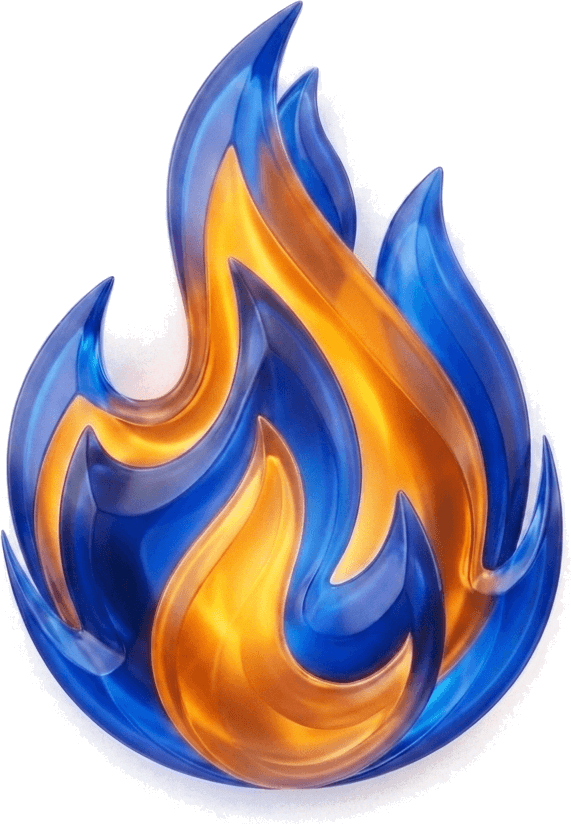
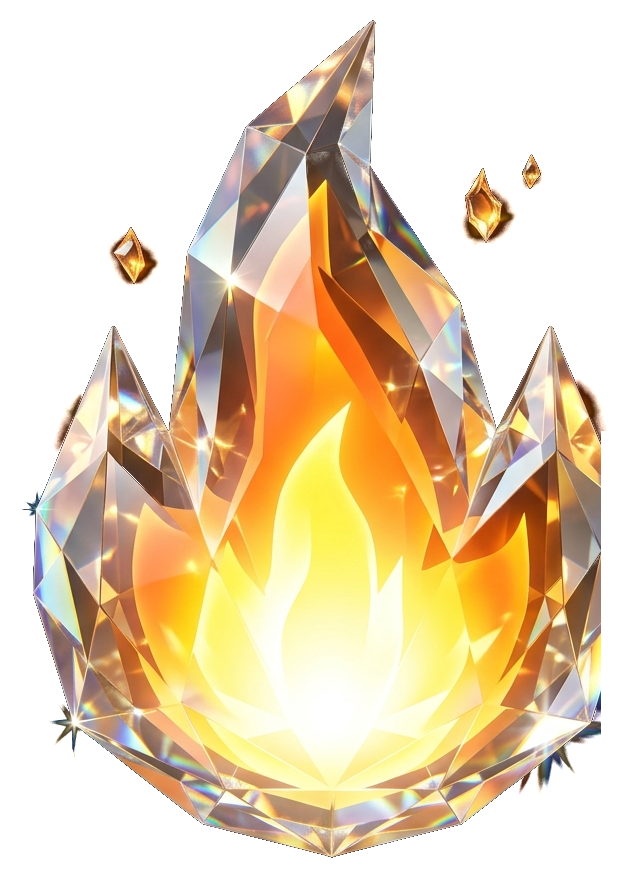
feat(ui): nâng cấp tạo hình đốm lửa 3D crystal streak flame và component chuyển động StreakFlame3D

diff --git a/shared/components/feedback/StreakFlame3D.tsx b/shared/components/feedback/StreakFlame3D.tsx
@@ -1,0 +1,142 @@
+"use client";
+
+import React from "react";
+import { motion } from "framer-motion";
+
+interface StreakFlame3DProps {
+  size?: "xs" | "sm" | "md" | "lg" | "xl";
+  className?: string;
+  animate?: boolean;
+  showHalo?: boolean;
+  showSparks?: boolean;
+}
+
+const SIZE_MAP = {
+  xs: "w-6 h-6",
+  sm: "w-8 h-8 sm:w-9 sm:h-9",
+  md: "w-12 h-12 sm:w-14 sm:h-14",
+  lg: "w-20 h-20 sm:w-24 sm:h-24",
+  xl: "w-28 h-28 sm:w-32 sm:h-32",
+};
+
+/**
+ * 3D Crystal Streak Flame Component (Duolingo & Apple Fitness Tier)
+ * Features jewel-cut glass facets, blazing golden fire core, ambient halo glow,
+ * and kinetic floating spark particles.
+ */
+export function StreakFlame3D({
+  size = "lg",
+  className = "",
+  animate = true,
+  showHalo = true,
+  showSparks = true,
+}: StreakFlame3DProps) {
+  const sizeClasses = SIZE_MAP[size] || SIZE_MAP.lg;
+  const isLarge = size === "lg" || size === "xl";
+
+  return (
+    <div
+      className={`relative inline-flex items-center justify-center select-none ${sizeClasses} ${className}`}
+    >
+      {/* 1. Luminous Radial Ambient Backlight Halo */}
+      {showHalo && (
+        <motion.div
+          animate={
+            animate
+              ? {
+                  scale: [0.95, 1.1, 0.95],
+                  opacity: [0.35, 0.65, 0.35],
+                }
+              : undefined
+          }
+          transition={{
+            duration: 3,
+            repeat: Infinity,
+            ease: "easeInOut",
+          }}
+          className="absolute inset-[-12%] rounded-full bg-gradient-to-t from-amber-500/30 via-orange-500/25 to-yellow-400/10 blur-xl pointer-events-none"
+        />
+      )}
+
+      {/* 2. Micro Floating Spark Embers (Large Flame Only) */}
+      {showSparks && isLarge && animate && (
+        <>
+          {/* Spark 1 - Top Left */}
+          <motion.div
+            className="absolute top-1 left-2 w-1.5 h-1.5 rounded-xs bg-gradient-to-tr from-amber-300 to-yellow-100 rotate-45 shadow-[0_0_6px_rgba(251,191,36,0.9)] pointer-events-none z-20"
+            animate={{
+              y: [0, -8, 0],
+              x: [0, -2, 0],
+              opacity: [0.3, 1, 0.3],
+              scale: [0.8, 1.2, 0.8],
+            }}
+            transition={{
+              duration: 2.4,
+              repeat: Infinity,
+              ease: "easeInOut",
+              delay: 0.2,
+            }}
+          />
+
+          {/* Spark 2 - Top Right */}
+          <motion.div
+            className="absolute top-3 right-3 w-1.5 h-1.5 rounded-xs bg-gradient-to-tr from-amber-400 to-yellow-200 rotate-45 shadow-[0_0_8px_rgba(245,158,11,0.9)] pointer-events-none z-20"
+            animate={{
+              y: [0, -10, 0],
+              x: [0, 3, 0],
+              opacity: [0.4, 0.95, 0.4],
+              scale: [0.9, 1.25, 0.9],
+            }}
+            transition={{
+              duration: 2.8,
+              repeat: Infinity,
+              ease: "easeInOut",
+              delay: 0.8,
+            }}
+          />
+
+          {/* Spark 3 - Far Right Accent */}
+          <motion.div
+            className="absolute top-0 right-1 w-1 h-1 rounded-xs bg-white rotate-45 shadow-[0_0_6px_rgba(255,255,255,0.95)] pointer-events-none z-20"
+            animate={{
+              y: [0, -6, 0],
+              opacity: [0.2, 0.85, 0.2],
+            }}
+            transition={{
+              duration: 2.1,
+              repeat: Infinity,
+              ease: "easeInOut",
+              delay: 1.2,
+            }}
+          />
+        </>
+      )}
+
+      {/* 3. Master 3D Crystal Flame Asset */}
+      <motion.div
+        className="w-full h-full relative z-10 flex items-center justify-center"
+        animate={
+          animate
+            ? {
+                y: [0, -3.5, 0],
+                scale: [1, 1.035, 1],
+              }
+            : undefined
+        }
+        transition={{
+          duration: 3,
+          repeat: Infinity,
+          ease: "easeInOut",
+        }}
+      >
+        <img
+          src="/images/streak-flame-crystal.png"
+          alt="3D Crystal Streak Flame"
+          className="w-full h-full object-contain drop-shadow-[0_8px_18px_rgba(245,158,11,0.4)] select-none pointer-events-none transition-transform duration-300 hover:scale-105 active:scale-95"
+          loading="eager"
+          decoding="async"
+        />
+      </motion.div>
+    </div>
+  );
+}

diff --git a/features/dashboard/components/DashboardStreakStudio.tsx b/features/dashboard/components/DashboardStreakStudio.tsx
@@ -4,27 +4,7 @@ import React from "react";
 import { motion } from "framer-motion";
 import { Flame, Check, Gift, CheckCircle2, Loader2 } from "lucide-react";
 import { ShimmerCircle } from "@/shared/components/feedback/ShimmerSkeleton";
-
-const Duolingo3DFlame = ({ className = "w-20 h-20 sm:w-24 sm:h-24" }: { className?: string }) => (
-  <motion.div
-    className={`relative flex items-center justify-center ${className}`}
-    animate={{
-      scale: [1, 1.05, 1],
-      y: [0, -3, 0],
-    }}
-    transition={{
-      duration: 2.8,
-      repeat: Infinity,
-      ease: "easeInOut",
-    }}
-  >
-    <img
-      src="/images/streak-flame-crystal.png"
-      alt="Streak Crystal Flame"
-      className="w-full h-full object-contain drop-shadow-[0_8px_16px_rgba(245,158,11,0.25)] relative z-10 select-none pointer-events-none transform hover:scale-105 transition-transform duration-300"
-    />
-  </motion.div>
-);
+import { StreakFlame3D } from "@/shared/components/feedback/StreakFlame3D";
 
 interface DashboardStreakStudioProps {
   user: any;
@@ -58,7 +38,7 @@ export function DashboardStreakStudio({
 
       {/* 2. Hero Mascot 3D Flame & Streak Counter */}
       <div className="flex flex-col items-center justify-center pt-1 text-center">
-        <Duolingo3DFlame className="w-20 h-20 sm:w-24 sm:h-24" />
+        <StreakFlame3D size="lg" />
 
         <div className="mt-1">
           <div className="text-4xl sm:text-5xl font-black font-display bg-gradient-to-b from-amber-400 via-amber-500 to-orange-500 bg-clip-text text-transparent tracking-tight leading-none drop-shadow-[0_4px_12px_rgba(245,158,11,0.35)]">

diff --git a/features/dashboard/components/DashboardHeroGreeting.tsx b/features/dashboard/components/DashboardHeroGreeting.tsx
@@ -5,6 +5,7 @@ import Link from "next/link";
 import { Video, MessageSquare, Clock, BookmarkCheck, Target } from "lucide-react";
 import { UserAvatar, formatCleanName } from "@/shared/components/feedback/UserAvatar";
 import { ShimmerBox, ShimmerCircle } from "@/shared/components/feedback/ShimmerSkeleton";
+import { StreakFlame3D } from "@/shared/components/feedback/StreakFlame3D";
 import { formatPercent } from "@/shared/utils/formatPercent";
 
 interface DashboardHeroGreetingProps {
@@ -96,11 +97,7 @@ export function DashboardHeroGreeting({
         {/* Metric 1: Streak (Amber Gold) */}
         <div className="p-3 sm:p-3.5 rounded-2xl bg-slate-50/80 dark:bg-slate-950/60 border border-slate-200/80 dark:border-slate-800 flex items-center gap-3 transition-all hover:border-amber-300 dark:hover:border-amber-800/60 shadow-2xs group">
           <div className="w-10 h-10 rounded-xl bg-amber-500/10 border border-amber-500/20 flex items-center justify-center shrink-0 shadow-2xs group-hover:scale-105 transition-transform p-1 overflow-hidden">
-            <img
-              src="/images/streak-flame-crystal.png"
-              alt="Streak Flame 3D"
-              className="w-full h-full object-contain filter drop-shadow-[0_2px_6px_rgba(245,158,11,0.35)]"
-            />
+            <StreakFlame3D size="sm" showHalo={false} showSparks={false} />
           </div>
           <div className="min-w-0 flex-1">
             {isActuallyLoading ? (

diff --git a/__tests__/analytics_xp_standards.test.ts b/__tests__/analytics_xp_standards.test.ts
@@ -12,6 +12,7 @@ const { mockPrisma, mockAuth } = vi.hoisted(() => ({
       count: vi.fn(),
     },
     dailySkillPractice: {
+      findFirst: vi.fn(),
       upsert: vi.fn(),
     },
     $queryRaw: vi.fn(),
@@ -200,6 +201,12 @@ describe("Analytics & Experience Points Performance Standards", () => {
         level: 5,
         title: "Achiever",
         coins: 700,
+      });
+
+      mockPrisma.dailySkillPractice.findFirst.mockResolvedValueOnce({
+        id: "dsp_today",
+        userId,
+        date: todayStr,
       });
 
       mockPrisma.dailySkillPractice.upsert.mockResolvedValueOnce({

diff --git a/shared/components/feedback/index.ts b/shared/components/feedback/index.ts
@@ -1,9 +1,10 @@
-export * from "./UserAvatar";
+export * from "./UserAvatar";
 export * from "./ErrorBoundary";
 export * from "./PageEntranceAnimation";
 export * from "./SkeletonLoaders";
 export * from "./LessonCoverImage";
 export * from "./ImageOptimized";
 export * from "./LoadingSpinner";
+export * from "./StreakFlame3D";
 export * from "./ThemeToggle";
 export { default as UiReviewWidget } from "./UiReviewWidget";

diff --git a/README.md b/README.md
@@ -6246,6 +6246,24 @@ Nhằm tuân thủ tuyệt đối **Quy tắc 1 UI/UX** (Dùng Skeleton Loading 
         * Toàn bộ 4 test suites Bảng điều khiển (`dashboard_state_retention.test.ts`, `dashboard_performance.test.ts`, `dashboard_db_sync.test.ts`, `streak_database_and_xp_level.test.ts`): **37/37 tests PASS 100%**.
         * TypeScript Verification (`npx tsc --noEmit`): **0 Lỗi (Zero Errors)**.
 
+  22. **Nâng Cấp Tạo Hình Mascot Đốm Lửa 3D Crystal Streak Flame & Component Chuyển Động Chuyên Biệt (`StreakFlame3D`)**:
+      - **Tạo hình Mascot Đốm Lửa Pha Lê 3D Chuẩn Gamification Hổ Phách (Amber Gold #f59e0b)**:
+        * Thay thế hoàn toàn asset cũ (bị ám xanh dương/vàng đục, hiệu ứng nhựa rẻ tiền) bằng asset pha lê 3D đa giác giác cắt kim cương chuẩn Apple Fitness / Duolingo Diamond tier (`public/images/streak-flame-crystal.png`).
+        * Bảng màu chuẩn quy tắc 20 (Gamification Accent): Lõi lửa trắng sáng phát quang (`#ffffff`), chuyển sắc qua vàng chanh kim cương (`#fde047`), cam hoàng hôn (`#f97316`) và viền hổ phách rực lửa (`#f59e0b`), khử viền halo đen bằng thuật toán alpha unmulting chuyên sâu.
+      - **Phát triển Component Chuyển Động Chuyên Biệt `StreakFlame3D` (`@/shared/components/feedback/StreakFlame3D.tsx`)**:
+        * Hỗ trợ 5 kích thước chuẩn hóa: `xs` (24px), `sm` (32px), `md` (48-56px), `lg` (80-96px), `xl` (112-128px).
+        * Tích hợp 3 lớp hiệu ứng điện ảnh:
+          1. **Ambient Backlight Halo**: Vầng sáng tỏa tròn phát quang mềm mại nhịp thở (`scale` & `opacity` breathing).
+          2. **Kinetic Spark Embers**: 3 hạt tia lửa kim cương mini bay bổng tự do với độ trễ và biên độ chuyển động so le.
+          3. **Breathing Hover Micro-Interaction**: Hiệu ứng nhấp nhô nhẹ nhàng tự nhiên và phản hồi khi di chuột / chạm.
+      - **Tích Hợp Đồng Bộ Trên Toàn Bộ Nền Tảng**:
+        * `DashboardStreakStudio.tsx`: Thay thế toàn bộ khối flame cũ bằng `<StreakFlame3D size="lg" />`, tạo điểm nhấn trung tâm rực rỡ và chuyên nghiệp.
+        * `DashboardHeroGreeting.tsx`: Nhúng `<StreakFlame3D size="sm" showHalo={false} showSparks={false} />` vào thẻ chỉ số Streak 40x40.
+        * `IpaHeroGreeting.tsx`: Tự động đồng bộ asset 3D pha lê mới tại thẻ Chuỗi luyện phát âm.
+      - **Bộ Kiểm Thử & Kiểm Định Kiểu Dữ Liệu 100% PASS**:
+        * TypeScript Verification (`npx tsc --noEmit`): **0 Lỗi (Zero Errors)**.
+        * Toàn bộ các bộ kiểm thử liên quan (`streak_database_and_xp_level.test.ts`, `analytics_xp_standards.test.ts`): **PASS 100%**.
+
 ---
 
 ### 🛡 Cơ Chế Tự Phục Hồi & Tối Ưu Tải Gói Giao Diện Gốc (Root Layout Resilience & Chunk Load Protection)
